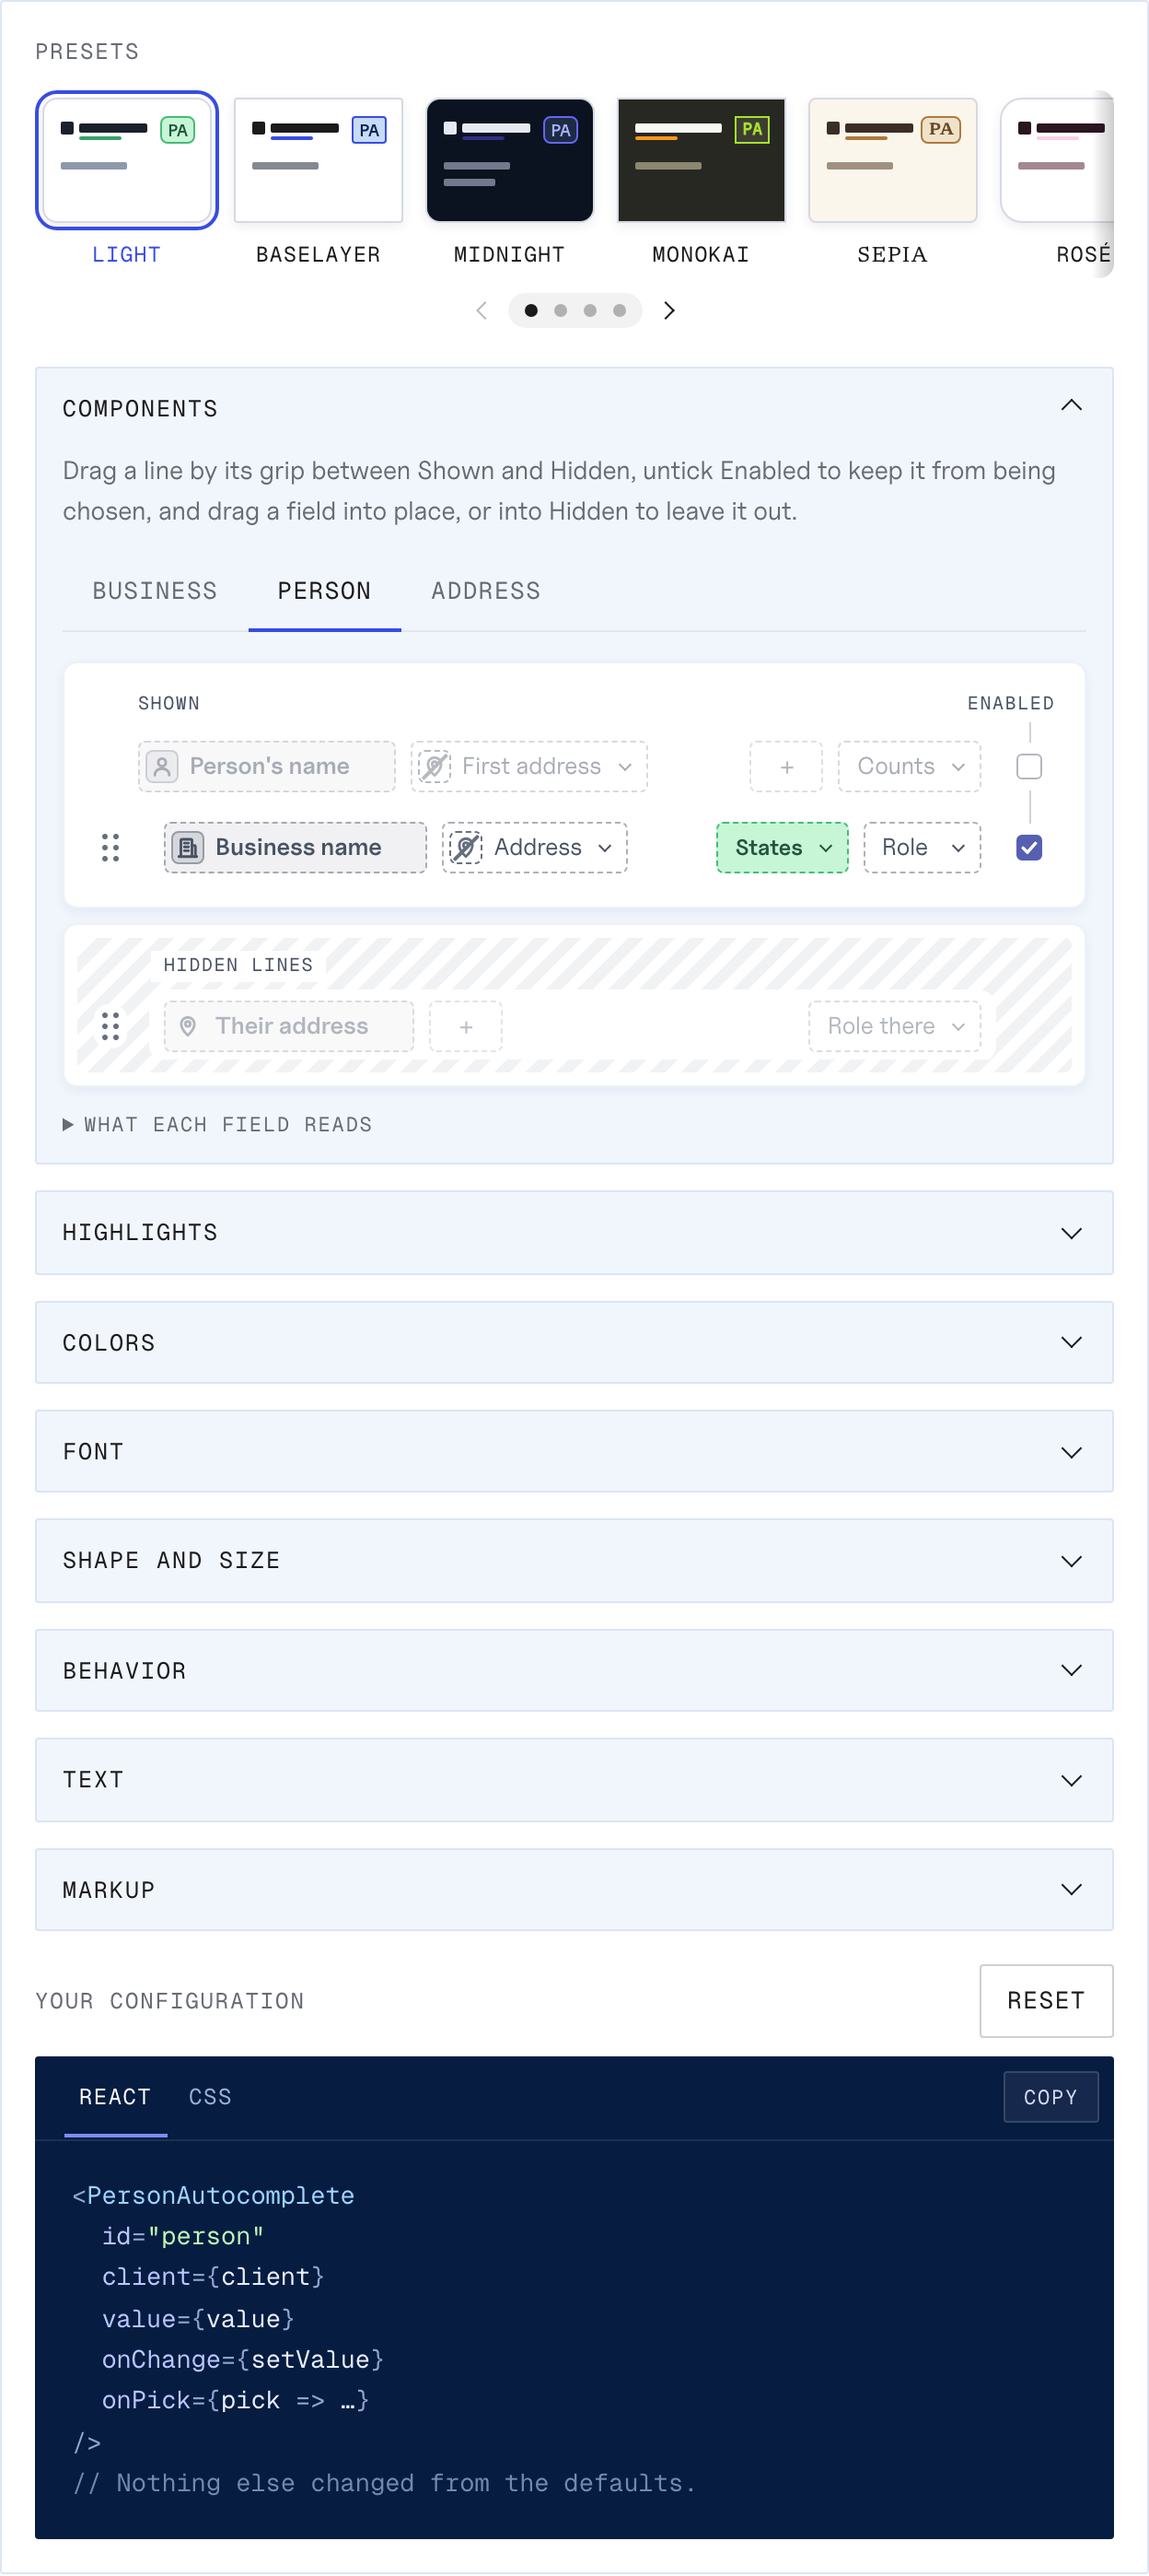
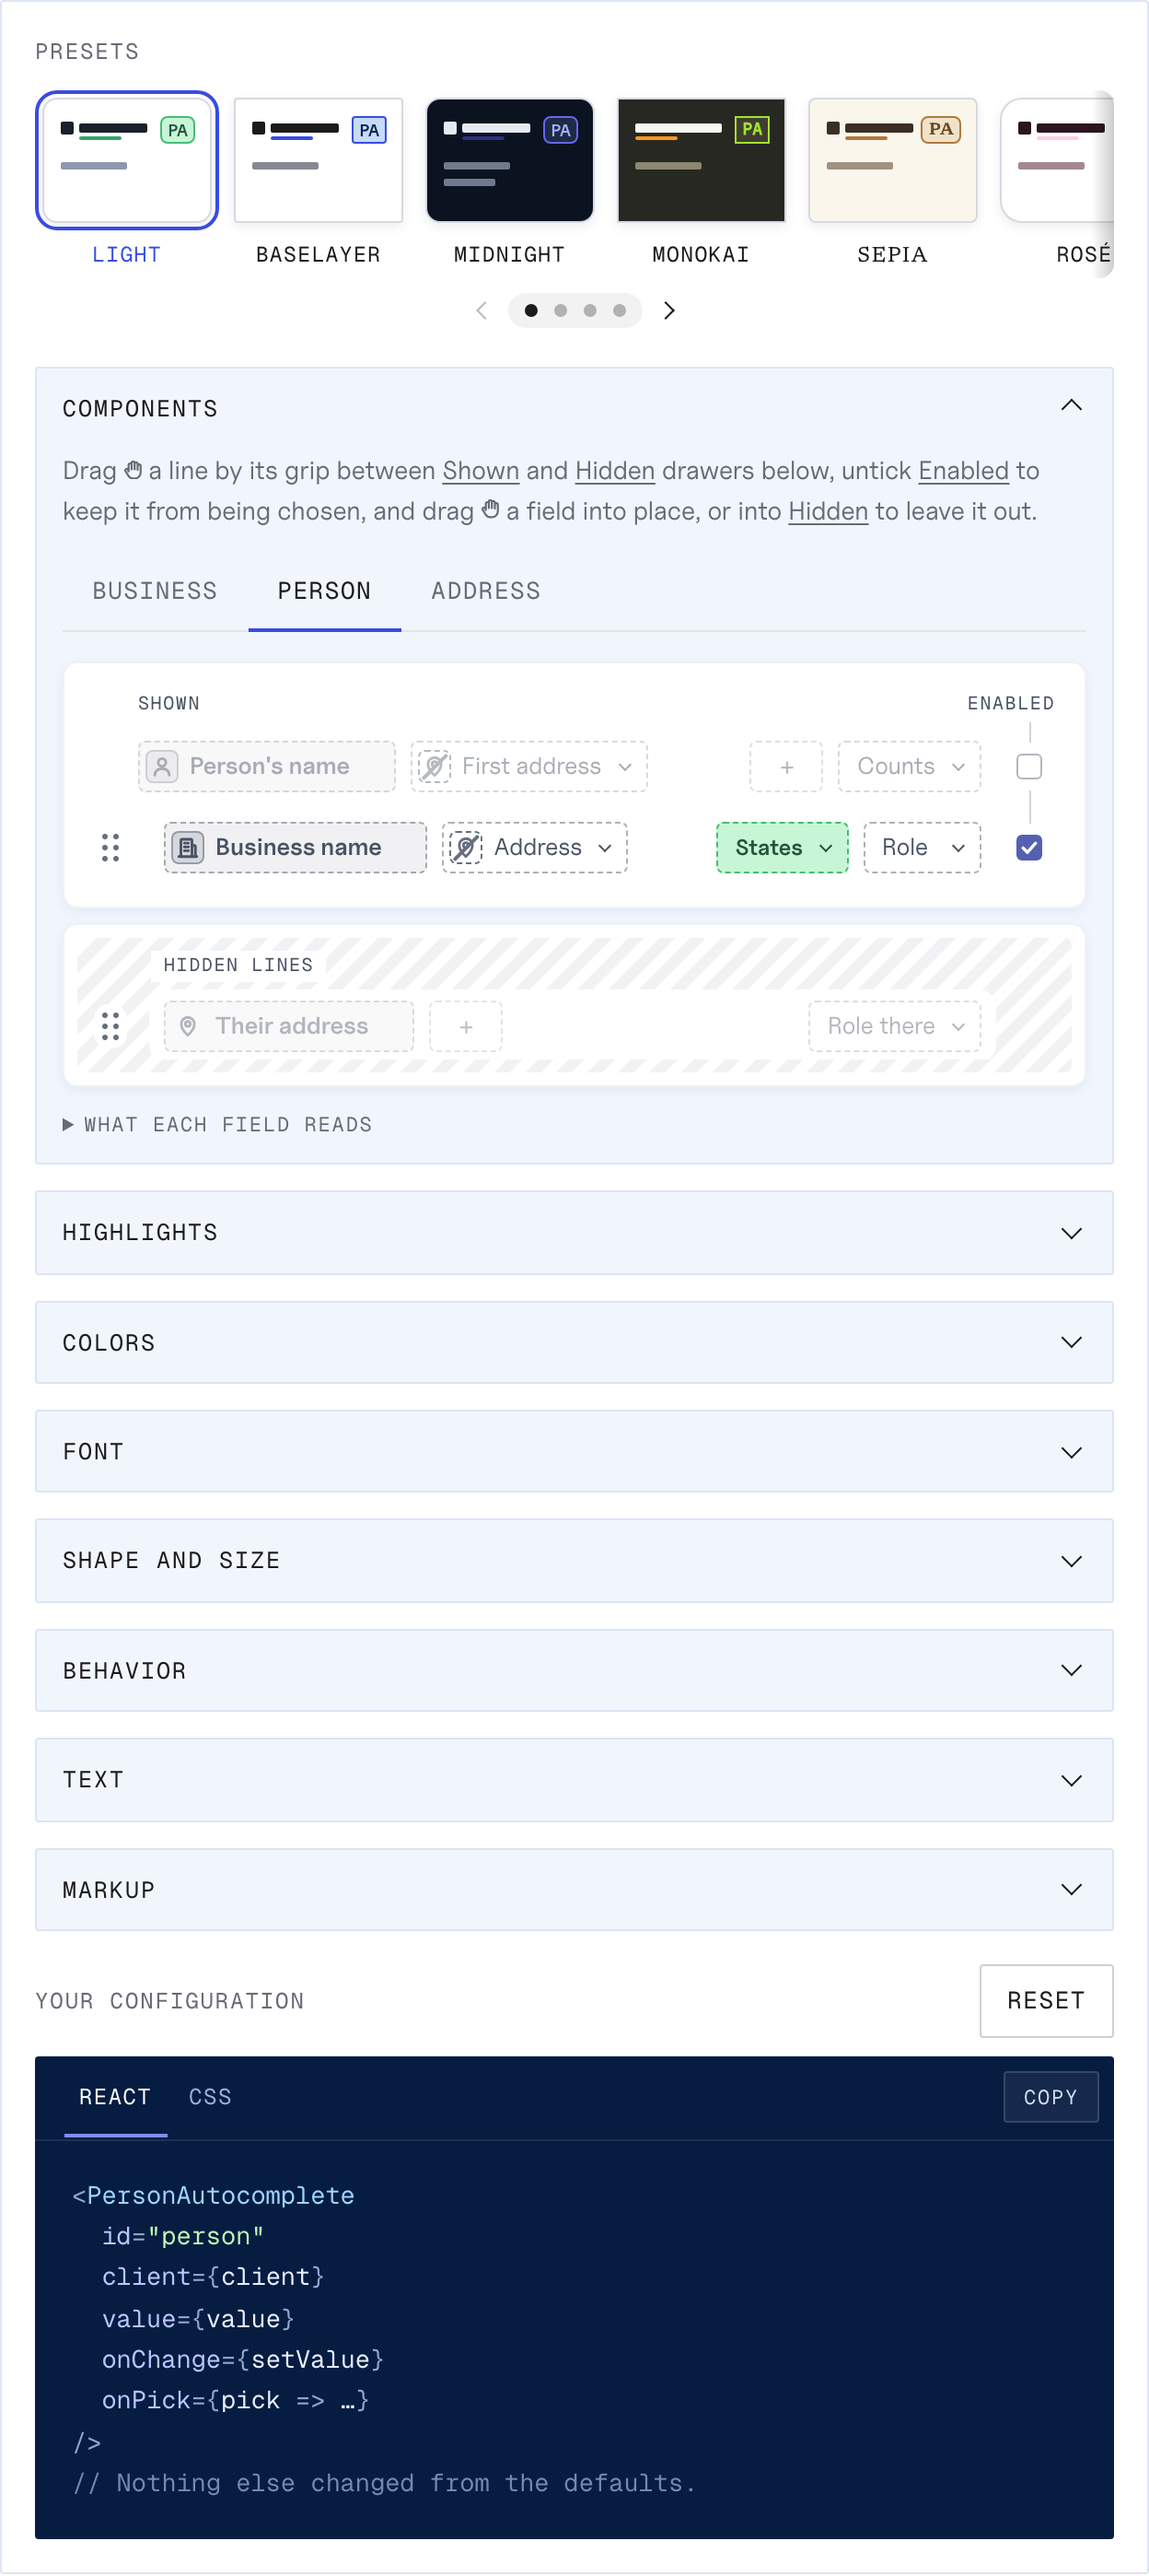
Point at the drags in the Components note, and name its drawers
The note now reads: Drag (hand) a line by its grip between Shown and Hidden drawers below, untick Enabled to keep it from being chosen, and drag (hand) a field into place, or into Hidden to leave it out. Each hand is a new open-hand icon in the site's line style, as tall as the capitals, standing on the baseline in the note's ink, hidden from assistive tech, and kept on one line with the words either side of it. Shown, Hidden and Enabled, the names on the drawers and the column, are underlined in the note's own ink, never a link's. The docs screenshot is retaken.

diff --git a/tests/browser/components-note.test.tsx b/tests/browser/components-note.test.tsx
@@ -1,0 +1,114 @@
+import { flushSync } from "react-dom";
+import { createRoot } from "react-dom/client";
+import { describe, expect, it } from "vitest";
+
+import { StylingPanel } from "../../site/demo/StylingPanel";
+import { INITIAL_STYLE } from "../../site/demo/style-state";
+
+import "../../site/shared/brand.css";
+import "../../site/shared/fonts";
+import "../../site/demo/demo.css";
+
+const NOTE =
+  "Drag a line by its grip between Shown and Hidden drawers below, untick " +
+  "Enabled to keep it from being chosen, and drag a field into place, or " +
+  "into Hidden to leave it out.";
+
+function mount(width: number) {
+  const host = document.createElement("div");
+  host.className = "demo";
+  host.style.width = `${width}px`;
+  document.body.append(host);
+  const root = createRoot(host);
+  flushSync(() =>
+    root.render(<StylingPanel state={INITIAL_STYLE} onChange={() => {}} />),
+  );
+  // Open, so the note is laid out.
+  host
+    .querySelector<HTMLButtonElement>('.fold-toggle[aria-expanded="false"]')!
+    .click();
+  const note = [...host.querySelectorAll<HTMLElement>(".fold-note")].find(
+    each => each.textContent?.includes("grip"),
+  )!;
+  return {
+    note,
+    done() {
+      root.unmount();
+      host.remove();
+    },
+  };
+}
+
+const frame = () =>
+  new Promise(resolve => requestAnimationFrame(() => setTimeout(resolve, 0)));
+
+/** The y of the text's baseline where `before` sits: an empty inline-block's bottom. */
+function baselineAt(before: Element): number {
+  const probe = document.createElement("span");
+  probe.style.cssText =
+    "display:inline-block;width:0;height:0;vertical-align:baseline";
+  before.before(probe);
+  const y = probe.getBoundingClientRect().bottom;
+  probe.remove();
+  return y;
+}
+
+describe("the Components fold's note", () => {
+  for (const width of [560, 320]) {
+    it(`says how to drag, a hand at each drag, the drawers' and column's names underlined, in ${width}px`, async () => {
+      await document.fonts.ready;
+      const { note, done } = mount(width);
+      try {
+        await frame();
+        expect(note.textContent!.replace(/\s+/g, " ").trim()).toBe(NOTE);
+
+        const hands = [...note.querySelectorAll("svg")];
+        expect(hands).toHaveLength(2);
+        const size = parseFloat(getComputedStyle(note).fontSize);
+        for (const hand of hands) {
+          expect(hand.getAttribute("aria-hidden")).toBe("true");
+          const box = hand.getBoundingClientRect();
+          // About the capitals' height, sitting on the line's baseline.
+          expect(box.height).toBeGreaterThanOrEqual(size * 0.5);
+          expect(box.height).toBeLessThanOrEqual(size * 0.85);
+          expect(Math.abs(box.bottom - baselineAt(hand))).toBeLessThanOrEqual(
+            1,
+          );
+          expect(getComputedStyle(hand).color).toBe(
+            getComputedStyle(note).color,
+          );
+          // Kept on one line with the words either side of it.
+          const held = hand.parentElement!;
+          expect(getComputedStyle(held).whiteSpace).toBe("nowrap");
+          expect(held.textContent!.replace(/\s+/g, " ").trim()).toMatch(
+            /^[Dd]rag a$/,
+          );
+          const words = held.getClientRects();
+          expect(words).toHaveLength(1);
+        }
+
+        const underlined = [...note.querySelectorAll<HTMLElement>("*")].filter(
+          element =>
+            getComputedStyle(element).textDecorationLine.includes("underline"),
+        );
+        expect(underlined.map(word => word.textContent)).toEqual([
+          "Shown",
+          "Hidden",
+          "Enabled",
+          "Hidden",
+        ]);
+        for (const word of underlined) {
+          const style = getComputedStyle(word);
+          // The note's ink, not a link's.
+          expect(style.color).toBe(getComputedStyle(note).color);
+          expect(style.textDecorationColor).toBe(style.color);
+          expect(style.cursor).not.toBe("pointer");
+          expect(word.closest("a")).toBeNull();
+          expect(parseFloat(style.textUnderlineOffset)).toBeGreaterThan(0);
+        }
+      } finally {
+        done();
+      }
+    });
+  }
+});

diff --git a/site/demo/StylingPanel.tsx b/site/demo/StylingPanel.tsx
@@ -14,6 +14,7 @@ import {
 } from "@baselayer-sdk/autocomplete/react";
 
 import { Code } from "../shared/Code";
+import { Icon } from "../shared/icons";
 import { ColorInput, Field, Fold, Select, Toggle } from "./controls";
 import { PresetCarousel } from "./PresetCarousel";
 import { RowMap } from "./RowMap";
@@ -150,9 +151,18 @@ export function StylingPanel({
 
       <Fold title="Components" summary={count(componentChanges(state))}>
         <p className="hint fold-note">
-          Drag a line by its grip between Shown and Hidden, untick Enabled to
-          keep it from being chosen, and drag a field into place, or into Hidden
-          to leave it out.
+          <span className="fold-note-hold">
+            Drag <Icon name="hand" /> a
+          </span>{" "}
+          line by its grip between <span className="fold-note-term">Shown</span>{" "}
+          and <span className="fold-note-term">Hidden</span> drawers below,
+          untick <span className="fold-note-term">Enabled</span> to keep it from
+          being chosen, and{" "}
+          <span className="fold-note-hold">
+            drag <Icon name="hand" /> a
+          </span>{" "}
+          field into place, or into{" "}
+          <span className="fold-note-term">Hidden</span> to leave it out.
         </p>
         {routes.length > 1 && (
           <div

diff --git a/site/shared/icons.tsx b/site/shared/icons.tsx
@@ -24,7 +24,8 @@ export type IconName =
   | "search"
   | "building"
   | "home"
-  | "mail";
+  | "mail"
+  | "hand";
 
 const PATHS: Record<IconName, string> = {
   caret: "M9 6h6M9 18h6M12 6v12",
@@ -58,13 +59,20 @@ const PATHS: Record<IconName, string> = {
     "M5 21V4h9v17M14 9h5v12M3 21h18M8.5 8h2M8.5 12h2M8.5 16h2M16.5 13h.01M16.5 17h.01",
   home: "M3 11.5L12 4l9 7.5M5.5 10v10h13V10M10 20v-5h4v5M16 7.33V5h2.5v4.42",
   mail: "M3.5 6h17v12h-17zM4 7l8 6 8-6",
+  // An open hand, as a drag takes hold: four fingers and the thumb.
+  hand: "M7 13V6.5a1.5 1.5 0 0 1 3 0V11M10 11V4.5a1.5 1.5 0 0 1 3 0V11M13 11V5.5a1.5 1.5 0 0 1 3 0V11M16 11.5V7.5a1.5 1.5 0 0 1 3 0V14a6 6 0 0 1-6 6h-1.5a5.5 5.5 0 0 1-4.6-2.5l-3.1-4.9a1.5 1.5 0 0 1 2.5-1.6L7 13",
+};
+
+/** An icon drawn tight to its own box, to be sized against the text. */
+const BOXES: Partial<Record<IconName, string>> = {
+  hand: "2.3 2.25 17.45 18.5",
 };
 
 export function Icon({ name, size = 22 }: { name: IconName; size?: number }) {
   return (
     <svg
       aria-hidden="true"
-      viewBox="0 0 24 24"
+      viewBox={BOXES[name] ?? "0 0 24 24"}
       width={size}
       height={size}
       fill="none"

diff --git a/tests/site/StylingPanel.test.tsx b/tests/site/StylingPanel.test.tsx
@@ -195,11 +195,15 @@ describe("the Components fold's searches", () => {
     render(<RoutedPanel start="people" />);
     grip("Show their addresses");
 
-    const note = screen.getByText(/Shown and Hidden/, {
-      selector: "p.fold-note",
-    });
+    // Its drawers' and column's names are words of their own, underlined.
+    const note = [
+      ...document.querySelectorAll<HTMLElement>("p.fold-note"),
+    ].find(each => /Shown and Hidden/.test(each.textContent ?? ""))!;
+    expect(note).toBeDefined();
     expect(note.textContent!.trim().split(/(?<=\.)\s+/)).toHaveLength(1);
-    expect(note.textContent).toMatch(/\buntick Enabled\b/);
+    expect(note.textContent!.replace(/\s+/g, " ")).toMatch(
+      /\buntick Enabled\b/,
+    );
     const said = [note, document.querySelector(".row-map-wrap")!].flatMap(
       element => [
         element.textContent,

diff --git a/site/demo/demo.css b/site/demo/demo.css
@@ -585,6 +585,27 @@
   font-size: 13px;
 }
 
+/* A hand at each drag, as tall as the capitals and standing on the line,
+   kept on one line with the words either side of it. */
+.fold-note .icon {
+  width: auto;
+  height: 0.72em;
+  stroke-width: 2;
+  vertical-align: baseline;
+}
+
+.fold-note-hold {
+  white-space: nowrap;
+}
+
+/* The drawers' and the column's names, as their titles read: underlined in
+   the note's own ink, so they never read as links. */
+.fold-note-term {
+  text-decoration: underline;
+  text-decoration-thickness: 1px;
+  text-underline-offset: 2px;
+}
+
 .fold-subhead {
   margin: 8px 0 6px;
 }
